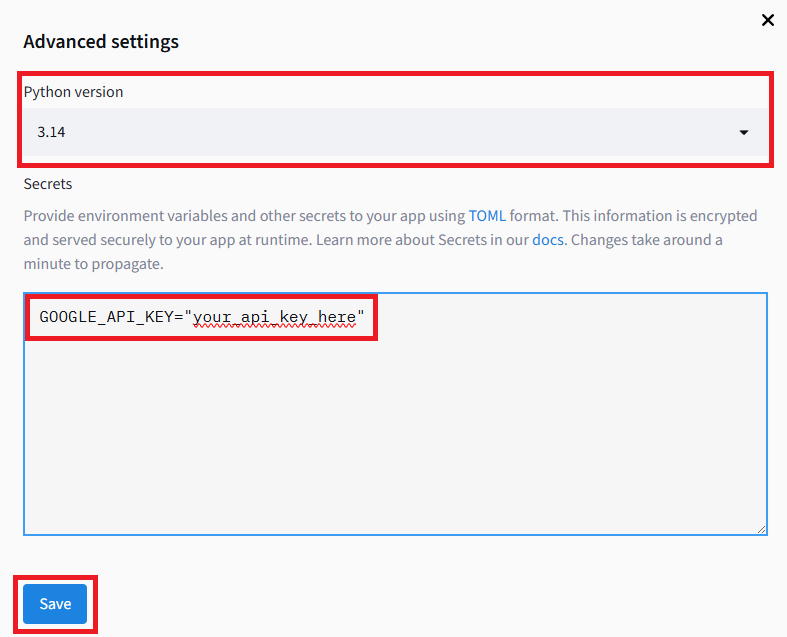
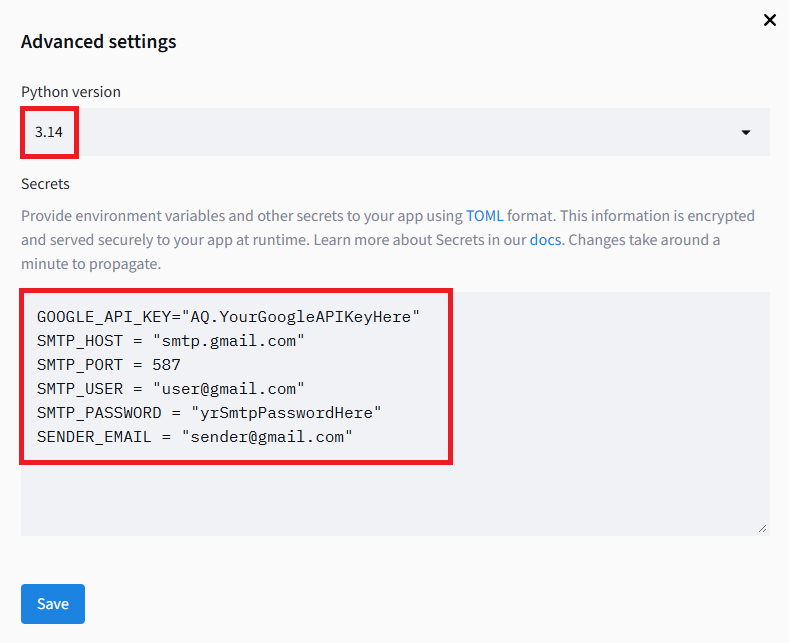
Updated README.md

diff --git a/README.md b/README.md
@@ -2,7 +2,7 @@
 
 This repo aims to prototype a web application that evaluates commercial properties using both conventional structured data in CSV and uploaded user photos (unstructured). The prototyped is implemented as a lightweight Streamlit app powered by a multimodal Gemini3.5 model.
 
-The application architecture involves three main steps:
+The application architecture involves three main parts:
 
 1. **Visual Analysis**: The user upload photos of the property and inputs basic filters (e.g., region, property type). A multimodal model evaluates the photo to score its condition and exterior quality.
 
@@ -26,9 +26,9 @@ The application architecture involves three main steps:
 
 ![Streamlit - Deployment Settings](./assets/images/streamlit-deploy.png)
 
-5. Click on `Advanced Settings` to enter the Google API key. Click `Save` button.
+5. Click on `Advanced Settings` to enter the Google API key and SMTP settings. Click `Save` button.
 
-![Streamlit - Advanced Settings](./assets/images/streamlit-advanced-settings.png)
+![Streamlit - App Settings](./assets/images/streamlit-advanced-settings.png)
 
 6. Click the `Deploy` button.
 
@@ -59,3 +59,101 @@ Streamlit is the leading framework for prototyping data and AI applications beca
 **Rapid Iteration Cycle**: When you update your script, Streamlit automatically refreshes the browser window live, allowing you to test changes to your AI prompts and UI instantly.
 
 **Frictionless Free Hosting**: Streamlit Community Cloud ties directly into GitHub, meaning you can publish your local script to a public URL in less than two minutes without managing servers or configuring cloud infrastructure manually.
+
+## System Architecture
+
+This diagram shows how the Streamlit app's modules interact with each other
+and with the two external services: the Google Gemini API (LLM calls) and
+an SMTP server (email delivery).
+
+```mermaid
+flowchart TD
+    User(["User<br/>(Browser)"]) -->|"Uploads photo,<br/>sets parameters"| Sidebar
+
+    subgraph App["app.py"]
+        Sidebar["Sidebar inputs<br/>region, type, GFA, photo"]
+        Button["Evaluate button"]
+        Sidebar --> Button
+    end
+
+    subgraph Vision["vision.py"]
+        VisionCall["analyze_property_image()<br/><i>uses config.VISION_MODEL</i>"]
+    end
+
+    subgraph DB["db.py"]
+        Comps["init_db() / get_comps()<br/>SQLite loaded from CSV"]
+    end
+
+    subgraph Appraisal["appraisal.py"]
+        SynthCall["generate_appraisal_report()<br/><i>uses config.SYNTHESIS_MODEL</i>"]
+    end
+
+    Gemini[("Google Gemini API")]
+
+    subgraph Parsing["parsing.py"]
+        Parse["extract_text()<br/>extract_json()"]
+    end
+
+    State["<b>app.py</b><br/>st.session_state<br/>(persisted report data)"]
+
+    subgraph UI["ui_components.py"]
+        Render["render_visual_report()<br/>render_appraisal_report()"]
+    end
+
+    subgraph PDF["pdf_report.py"]
+        BuildPDF["build_pdf_report()<br/>(reportlab)"]
+    end
+
+    Display["<b>app.py</b><br/>Report display +<br/>Export / Email UI"]
+
+    subgraph Email["email_utils.py"]
+        SendEmail["send_email_with_pdf()<br/>(smtplib)"]
+    end
+
+    SMTP[("SMTP server<br/>e.g. Gmail")]
+    Recipient(["Report recipient<br/>(email inbox)"])
+
+    Button --> VisionCall
+    Button --> Comps
+
+    VisionCall ---|"photo + prompt"| Gemini
+    Gemini ---|"raw JSON response"| VisionCall
+    Comps -->|"avg price/sqm,<br/>comp count"| SynthCall
+    VisionCall -->|"visual analysis"| SynthCall
+    SynthCall ---|"prompt / raw JSON response"| Gemini
+
+    VisionCall --> Parse
+    SynthCall --> Parse
+    Parse -->|"parsed dicts"| State
+
+    State --> Render --> Display
+    State --> BuildPDF -->|"PDF bytes"| Display
+
+    Display -->|"recipient email +<br/>PDF bytes"| SendEmail
+    SendEmail -->|"SMTP + STARTTLS"| SMTP -->|"delivers PDF attachment"| Recipient
+```
+
+### Module responsibilities
+
+| Module | Responsibility |
+|---|---|
+| `app.py` | Streamlit UI flow: sidebar inputs, button handling, session-state persistence, orchestration of all other modules |
+| `config.py` | Shared model name constants |
+| `db.py` | Loads the comps CSV into SQLite once (`init_db`) and queries it (`get_comps`) |
+| `vision.py` | Sends the uploaded photo + prompt to the Gemini vision model |
+| `appraisal.py` | Sends the visual analysis + comps data to the Gemini synthesis model for the structured appraisal |
+| `parsing.py` | Normalizes LLM response content and extracts the JSON object from it |
+| `ui_components.py` | Renders the parsed JSON as styled HTML report cards in Streamlit |
+| `pdf_report.py` | Renders the same report content as a downloadable PDF (reportlab) |
+| `email_utils.py` | Sends the PDF as an email attachment over SMTP |
+
+### Data flow summary
+
+1. The user uploads a photo and sets region / property type / GFA in the sidebar, then clicks **Evaluate**.
+2. `vision.py` sends the photo to Gemini and gets back a visual condition analysis.
+3. `db.py` queries SQLite for comparable transactions and computes the baseline valuation.
+4. `appraisal.py` sends the visual analysis + baseline data to Gemini, which returns a structured appraisal (executive summary, adjustment, final value opinion, etc.).
+5. `parsing.py` extracts clean JSON from both Gemini responses; the parsed data is stored in `st.session_state` so it survives Streamlit's rerun cycle.
+6. `ui_components.py` renders the stored data as on-screen report cards.
+7. `pdf_report.py` renders the same data as a PDF, available for direct download.
+8. If the user enters a recipient email, `email_utils.py` sends that PDF as an attachment via SMTP.

diff --git a/architecture.md b/architecture.md
@@ -1,0 +1,97 @@
+# System Architecture — Commercial Property Valuation & Vision Assistant
+
+This diagram shows how the Streamlit app's modules interact with each other
+and with the two external services: the Google Gemini API (LLM calls) and
+an SMTP server (email delivery).
+
+```mermaid
+flowchart TD
+    User(["User<br/>(Browser)"]) -->|"Uploads photo,<br/>sets parameters"| Sidebar
+
+    subgraph App["app.py"]
+        Sidebar["Sidebar inputs<br/>region, type, GFA, photo"]
+        Button["Evaluate button"]
+        Sidebar --> Button
+    end
+
+    subgraph Vision["vision.py"]
+        VisionCall["analyze_property_image()<br/><i>uses config.VISION_MODEL</i>"]
+    end
+
+    subgraph DB["db.py"]
+        Comps["init_db() / get_comps()<br/>SQLite loaded from CSV"]
+    end
+
+    subgraph Appraisal["appraisal.py"]
+        SynthCall["generate_appraisal_report()<br/><i>uses config.SYNTHESIS_MODEL</i>"]
+    end
+
+    Gemini[("Google Gemini API")]
+
+    subgraph Parsing["parsing.py"]
+        Parse["extract_text()<br/>extract_json()"]
+    end
+
+    State["<b>app.py</b><br/>st.session_state<br/>(persisted report data)"]
+
+    subgraph UI["ui_components.py"]
+        Render["render_visual_report()<br/>render_appraisal_report()"]
+    end
+
+    subgraph PDF["pdf_report.py"]
+        BuildPDF["build_pdf_report()<br/>(reportlab)"]
+    end
+
+    Display["<b>app.py</b><br/>Report display +<br/>Export / Email UI"]
+
+    subgraph Email["email_utils.py"]
+        SendEmail["send_email_with_pdf()<br/>(smtplib)"]
+    end
+
+    SMTP[("SMTP server<br/>e.g. Gmail")]
+    Recipient(["Report recipient<br/>(email inbox)"])
+
+    Button --> VisionCall
+    Button --> Comps
+
+    VisionCall ---|"photo + prompt"| Gemini
+    Gemini ---|"raw JSON response"| VisionCall
+    Comps -->|"avg price/sqm,<br/>comp count"| SynthCall
+    VisionCall -->|"visual analysis"| SynthCall
+    SynthCall ---|"prompt / raw JSON response"| Gemini
+
+    VisionCall --> Parse
+    SynthCall --> Parse
+    Parse -->|"parsed dicts"| State
+
+    State --> Render --> Display
+    State --> BuildPDF -->|"PDF bytes"| Display
+
+    Display -->|"recipient email +<br/>PDF bytes"| SendEmail
+    SendEmail -->|"SMTP + STARTTLS"| SMTP -->|"delivers PDF attachment"| Recipient
+```
+
+## Module responsibilities
+
+| Module | Responsibility |
+|---|---|
+| `app.py` | Streamlit UI flow: sidebar inputs, button handling, session-state persistence, orchestration of all other modules |
+| `config.py` | Shared model name constants |
+| `db.py` | Loads the comps CSV into SQLite once (`init_db`) and queries it (`get_comps`) |
+| `vision.py` | Sends the uploaded photo + prompt to the Gemini vision model |
+| `appraisal.py` | Sends the visual analysis + comps data to the Gemini synthesis model for the structured appraisal |
+| `parsing.py` | Normalizes LLM response content and extracts the JSON object from it |
+| `ui_components.py` | Renders the parsed JSON as styled HTML report cards in Streamlit |
+| `pdf_report.py` | Renders the same report content as a downloadable PDF (reportlab) |
+| `email_utils.py` | Sends the PDF as an email attachment over SMTP |
+
+## Data flow summary
+
+1. The user uploads a photo and sets region / property type / GFA in the sidebar, then clicks **Evaluate**.
+2. `vision.py` sends the photo to Gemini and gets back a visual condition analysis.
+3. `db.py` queries SQLite for comparable transactions and computes the baseline valuation.
+4. `appraisal.py` sends the visual analysis + baseline data to Gemini, which returns a structured appraisal (executive summary, adjustment, final value opinion, etc.).
+5. `parsing.py` extracts clean JSON from both Gemini responses; the parsed data is stored in `st.session_state` so it survives Streamlit's rerun cycle.
+6. `ui_components.py` renders the stored data as on-screen report cards.
+7. `pdf_report.py` renders the same data as a PDF, available for direct download.
+8. If the user enters a recipient email, `email_utils.py` sends that PDF as an attachment via SMTP.
